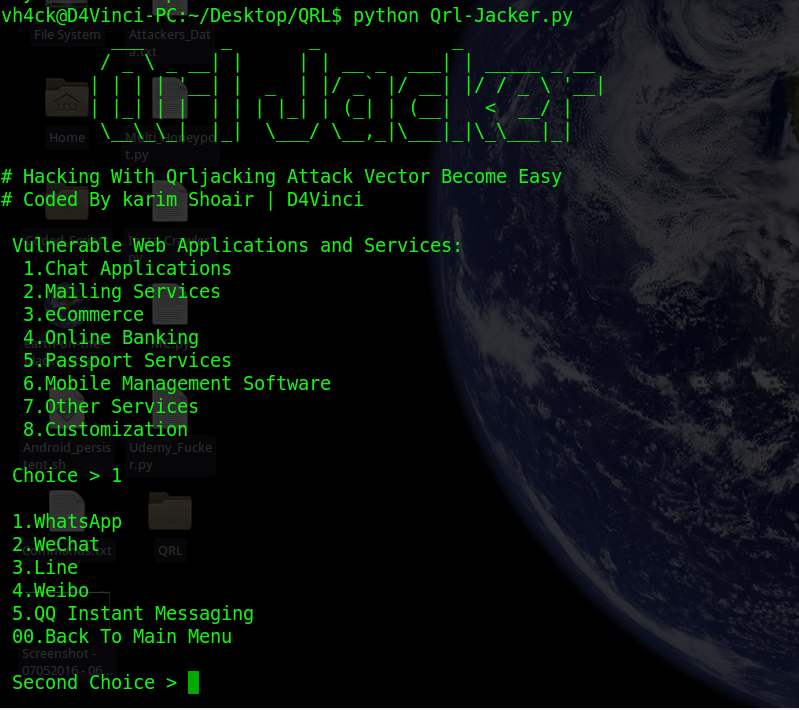
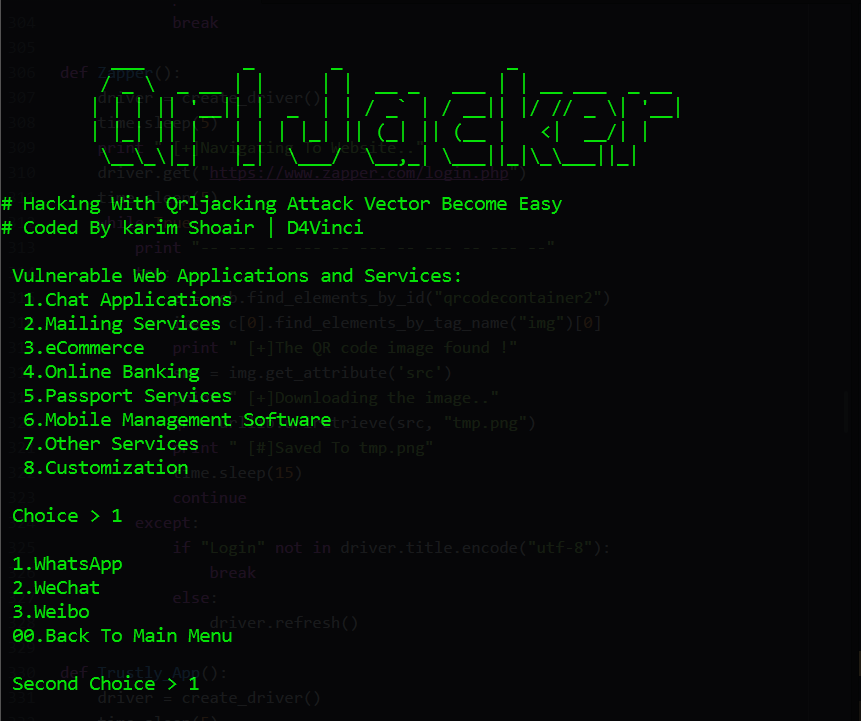
Started preparing for the first version release :smile:

Changed region(s): [[0.0, 0.0, 1.0, 1.0], [0.2403, 0.7746, 0.3004, 0.8056], [0.9912, 0.4648, 1.0, 0.4958]]

diff --git a/QrlJacking-Framework/QRLJacker.py b/QrlJacking-Framework/QRLJacker.py
@@ -17,20 +17,12 @@ try:
 
 except:
 	print "[!] Error Importing Exterinal Libraries"
-	print "[!] Trying to install it using pip\n"
+	print "[!] Trying install it using the requirements.txt file..\n"
 	try:
-		os.system("python -m pip install selenium")
-		os.system("python -m pip install Pillow")
-		os.system("python -m pip install requests")
+		os.system("pip install -r requirements.txt")
 	except:
-		try:
-			os.system("pip install selenium")
-			os.system("pip install Pillow")
-			os.system("pip install requests")
-		except:
-			print "[!] Can't install libraries "
-			print "[!!] Try to install it yourself"
-			exit(0)
+		print "[!] Failed installing it [ Install it yourself :p ]"
+		exit(0)
 
 finally:
 	from PIL import Image
@@ -451,16 +443,14 @@ def main():
   7.Other Services
   8.Customization [Soon]
 """
-	choice = int(raw_input(" Choice > "))
+	choice = input(" Choice > ")
 
 	#Chat Applications
 	if choice == 1:
 		print """
  1.WhatsApp
  2.WeChat
- 3.Line     [Soon]
- 4.Weibo
- 5.QQ Instant Messaging [Soon]
+ 3.Weibo
  00.Back To Main Menu
 	"""
 
@@ -501,10 +491,8 @@ def main():
 			WeChat()
 			main()
 
-		#3
-
 		#Weibo
-		elif int(choice_2) == 4:
+		elif int(choice_2) == 3:
 			port = raw_input(" Port to listen on (Default 1337) : ")
 			if port == "":port = 1337
 			clear()
@@ -513,14 +501,10 @@ def main():
 			Weibo()
 			main()
 
-		#QQ
-
-
 	#Mailing Services
 	if choice == 2:
 		print """
- 1.QQ Mail [Soon]
- 2.Yandex Mail
+ 1.Yandex Mail
  00.Back To Main Menu
 	"""
 		choice_2 = raw_input(" Second Choice > ")
@@ -528,9 +512,8 @@ def main():
 		if choice_2 == "00":
 			main()
 
-		#1
-
-		elif int(choice_2) == 2:
+		#Yandex Mail
+		elif int(choice_2) == 1:
 			port = raw_input(" Port to listen on (Default 1337) : ")
 			try:
 				int(port)
@@ -548,20 +531,16 @@ def main():
 	#eCommerce
 	if choice == 3:
 		print """
- 1.Alibaba
- 2.Aliexpress
- 3.Taobao
- 4.Tmall [Soon]
- 5.1688.com [Soon]
- 6.Alimama [Soon]
- 7.Taobao Trips
+ 1.Taobao
+ 2.Taobao Trips
  00.Back To Main Menu
 	"""
 		choice_2 = raw_input(" Second Choice > ")
 		if choice_2 == "00":
 			main()
 
-		elif int(choice_2) == 3:
+		#Taobao
+		elif int(choice_2) == 1:
 			port = raw_input(" Port to listen on (Default 1337) : ")
 			try:
 				int(port)
@@ -576,13 +555,8 @@ def main():
 			Taobao()
 			main()
 
-		#4
-
-		#5
-
-		#6
-
-		elif int(choice_2) == 7:
+		#Taobao Trips
+		elif int(choice_2) == 2:
 			port = raw_input(" Port to listen on (Default 1337) : ")
 			try:
 				int(port)
@@ -602,13 +576,13 @@ def main():
 		print """
  1.AliPay
  2.Yandex Money
- 3.TenPay [Soon]
  00.Back To Main Menu
 	"""
 		choice_2 = raw_input(" Second Choice > ")
 		if choice_2 == "00":
 			main()
 
+		#AliPay
 		elif int(choice_2) == 1:
 			port = raw_input(" Port to listen on (Default 1337) : ")
 			try:
@@ -624,6 +598,7 @@ def main():
 			AliPay()
 			main()
 
+		#Yandex Money
 		elif int(choice_2) == 2:
 			port = raw_input(" Port to listen on (Default 1337) : ")
 			try:
@@ -638,7 +613,6 @@ def main():
 			Serve_it(port)
 			Yandex()
 			main()
-	#Mobile Management
 
 	#Passport Services
 	if choice == 5:
@@ -650,6 +624,7 @@ def main():
 		if choice_2 == "00":
 			main()
 
+		#Yandex Passport
 		elif int(choice_2) == 1:
 			port = raw_input(" Port to listen on (Default 1337) : ")
 			try:
@@ -664,6 +639,7 @@ def main():
 			Serve_it(port)
 			Yandex()
 			main()
+
 	#Mobile Management Software
 	if choice == 6:
 		print """
@@ -675,6 +651,7 @@ def main():
 		if choice_2 == "00":
 			main()
 
+		#Airdroid
 		elif int(choice_2) == 1:
 			port = raw_input(" Port to listen on (Default 1337) : ")
 			try:
@@ -697,13 +674,13 @@ def main():
  2.Zapper
  3.Trustly App
  4.Yelophone
- 5.Alibaba Yunos [Soon]
  00.Back To Main Menu
 """
 		choice_2 = raw_input(" Second Choice > ")
 		if choice_2 == "00":
 			main()
 
+		#MyDigiPass
 		elif int(choice_2) == 1:
 			port = raw_input(" Port to listen on (Default 1337) : ")
 			try:
@@ -719,6 +696,7 @@ def main():
 			mydigipass()
 			main()
 
+		#Zapper
 		elif int(choice_2) == 2:
 			port = raw_input(" Port to listen on (Default 1337) : ")
 			try:
@@ -734,6 +712,7 @@ def main():
 			Zapper()
 			main()
 
+		#Trustly App
 		elif int(choice_2) == 3:
 			port = raw_input(" Port to listen on (Default 1337) : ")
 			try:
@@ -749,6 +728,7 @@ def main():
 			Trustly_App()
 			main()
 
+		#Yelophone
 		elif int(choice_2) == 4:
 			port = raw_input(" Port to listen on (Default 1337) : ")
 			try:
@@ -770,5 +750,6 @@ def main():
 		#url = settings.get("WeChat","url")
 		#image_number = settings.get("WeChat","image_number")
 		#classname = settings.get("WeChat","classname")
+
 if __name__ == '__main__':
 	main()

diff --git a/QrlJacking-Framework/Readme.md b/QrlJacking-Framework/Readme.md
@@ -1,33 +1,68 @@
-# Qrl Jacker
-### A python framework which goal is to exploit Qrl-Jacking attack vector easily
+# QrlJacker - QrlJacking Exploitation Framework
+### A python framework which goal is to exploit QrlJacking attack vector easily
 
-> #### Note: The framework not finished yet and there's a lot of work to do :)
+# Installation
+
+## Requirements
+* Python 2.7.x
+* Requests
+* Pillow
+* Selenium
+
+## Installation on Windows
+
+	After downloading [the framework](https://github.com/OWASP/QRLJacking)
+  cd QrlJacking-Framework
+	pip install -r requirements.txt
+	python QRLJacker.py
+
+## Installation on Ubuntu 16.04
+
+	sudo apt-get install python-dev python-pip libncurses5-dev git
+	git clone https://github.com/OWASP/QRLJacking
+	cd QrlJacking-Framework
+	pip install -r requirements.txt
+	python QRLJacker.py
+
+## Installation on OSX
+
+	git clone https://github.com/OWASP/QRLJacking
+	cd QrlJacking-Framework
+	sudo easy_install pip
+	sudo pip install -r requirements.txt
+	python QRLJacker.py
+
+## ScreenShot
+![alt img](https://github.com/OWASP/QRLJacking/blob/master/QrlJacking-Framework/ScreenShot.PNG)
+
+##Currently QrlJacker support the following websites :
+####1)whatsapp
+####2)WeChat
+####3)Weibo
+####4)Yandex
+####5)Taobao
+####6)Taobao Trips
+####7)AliPay
+####8)Yandex Money
+####9)Yandex Passport
+####10)Airdroid
+####11)MyDigiPass
+####12)Zapper
+####13)Trustly App
+####14)Yelophone
+
+------------------
 
 ##To Do List :
-####1)whatsapp............................(✓)
-####2)WeChat..............................(✓)
-####3)Line................................(X)
-####4)Weibo...............................(✓)
-####5)QQ Instant Messaging................(X)
-####6)QQ Mail.............................(X)
-####7)Yandex..............................(✓)
-####8)Alibaba.............................(X)
-####9)Aliexpress..........................(X)
-####10)Taobao.............................(✓)
-####11)Tmall..............................(X)
-####12)1688.com...........................(X)
-####13)Alimama............................(X)
-####14)Taobao Trips.......................(✓)
-####15)AliPay.............................(✓)
-####16)Yandex Money.......................(✓)
-####17)TenPay.............................(X)
-####18)Yandex Passport....................(✓)
-####19)Airdroid...........................(✓)
-####20)MyDigiPass.........................(✓)
-####21)Zapper.............................(✓)
-####22)Trustly App........................(✓)
-####23)Yelophone..........................(✓)
-####24)Alibaba Yunos......................(X)
+####1)Line
+####2)QQ Instant Messaging
+####3)QQ Mail
+####4)Alibaba
+####5)Aliexpress
+####6)Tmall
+####7)1688.com
+####8)Alimama
+####9)TenPay
+####10)Alibaba Yunos
 
-# At the end it should be like :
-![alt img](https://github.com/OWASP/QRLJacking/blob/master/QrlJacking-Framework/ScreenShot.PNG)
+> #### Stay Tuned :smile:
